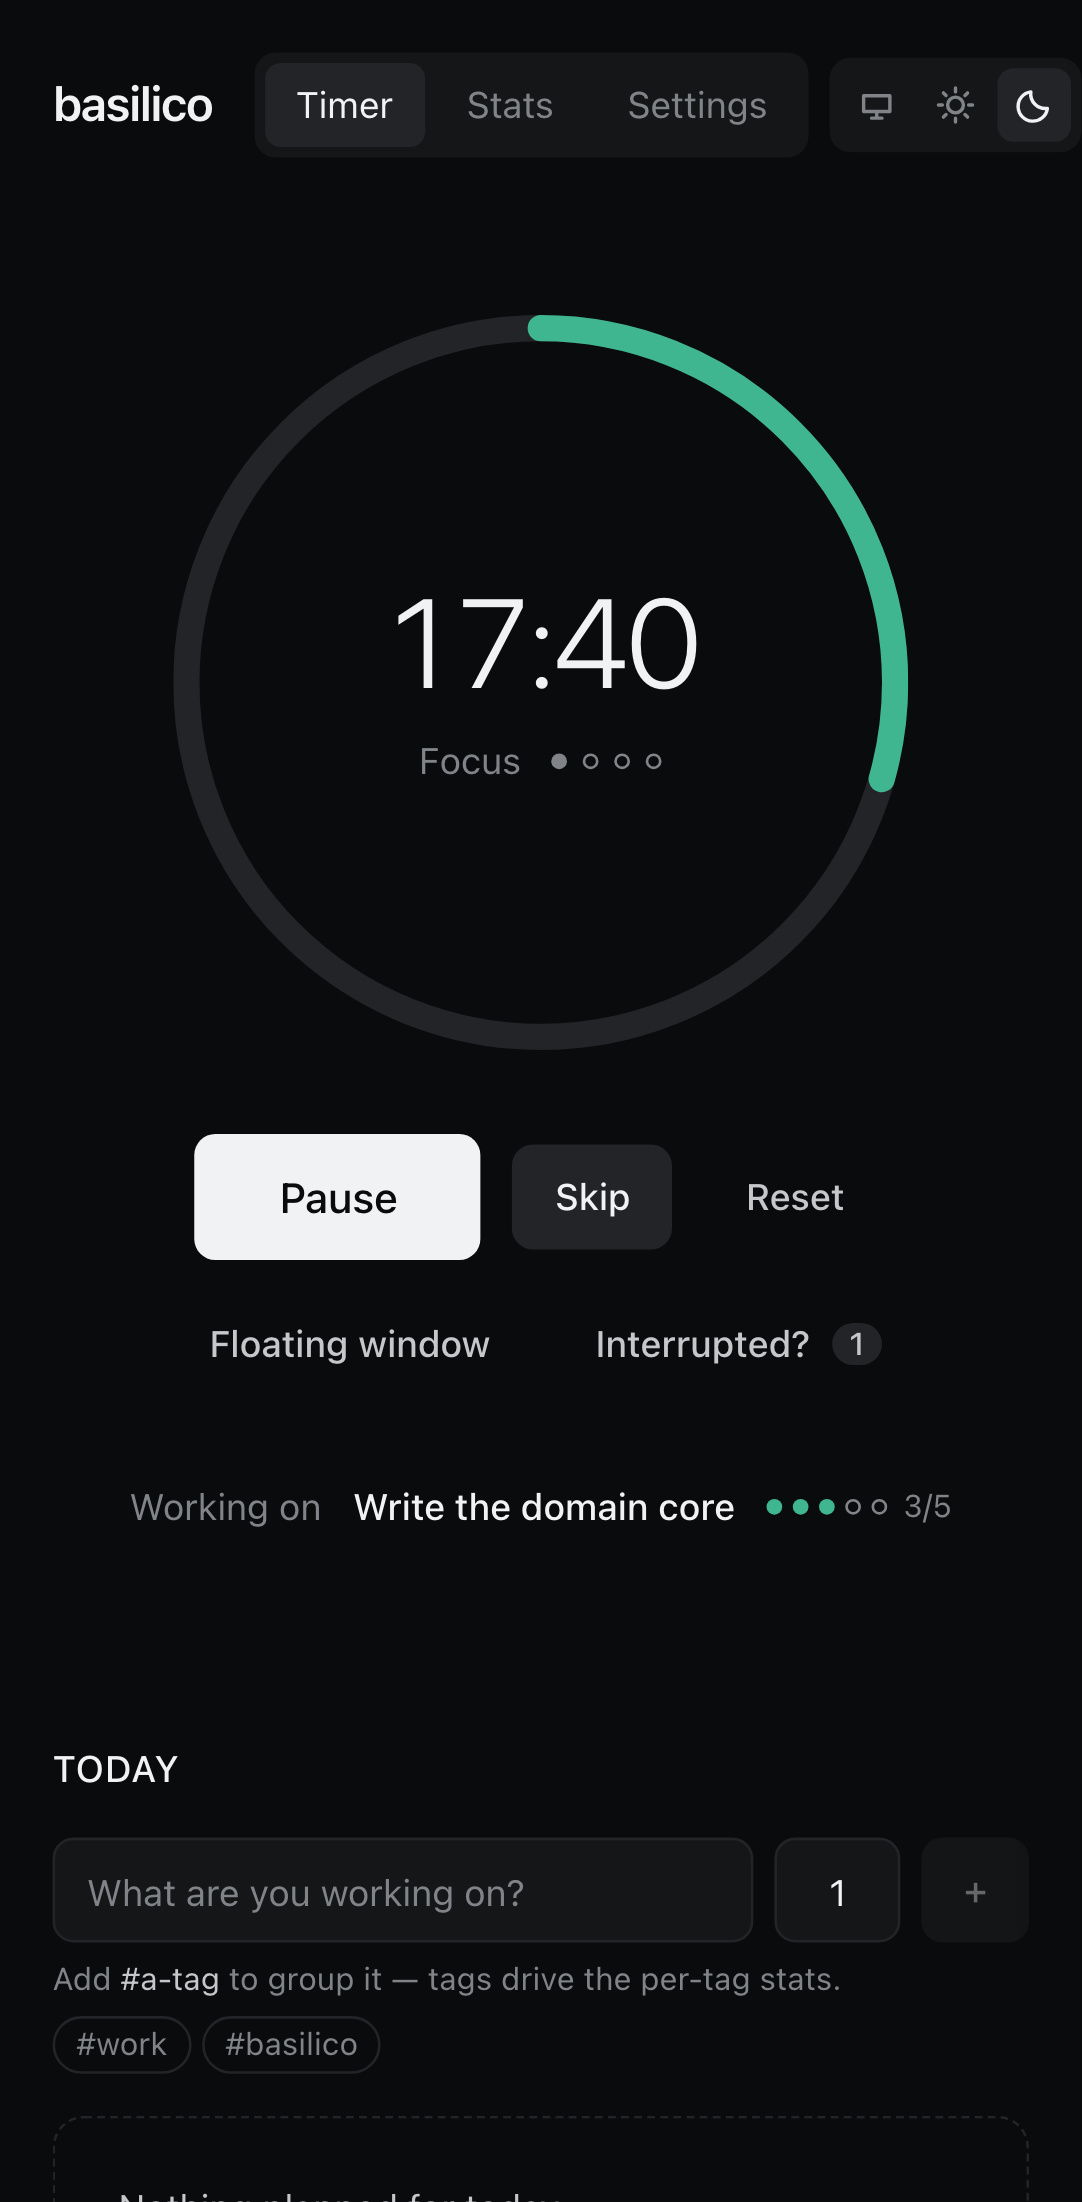
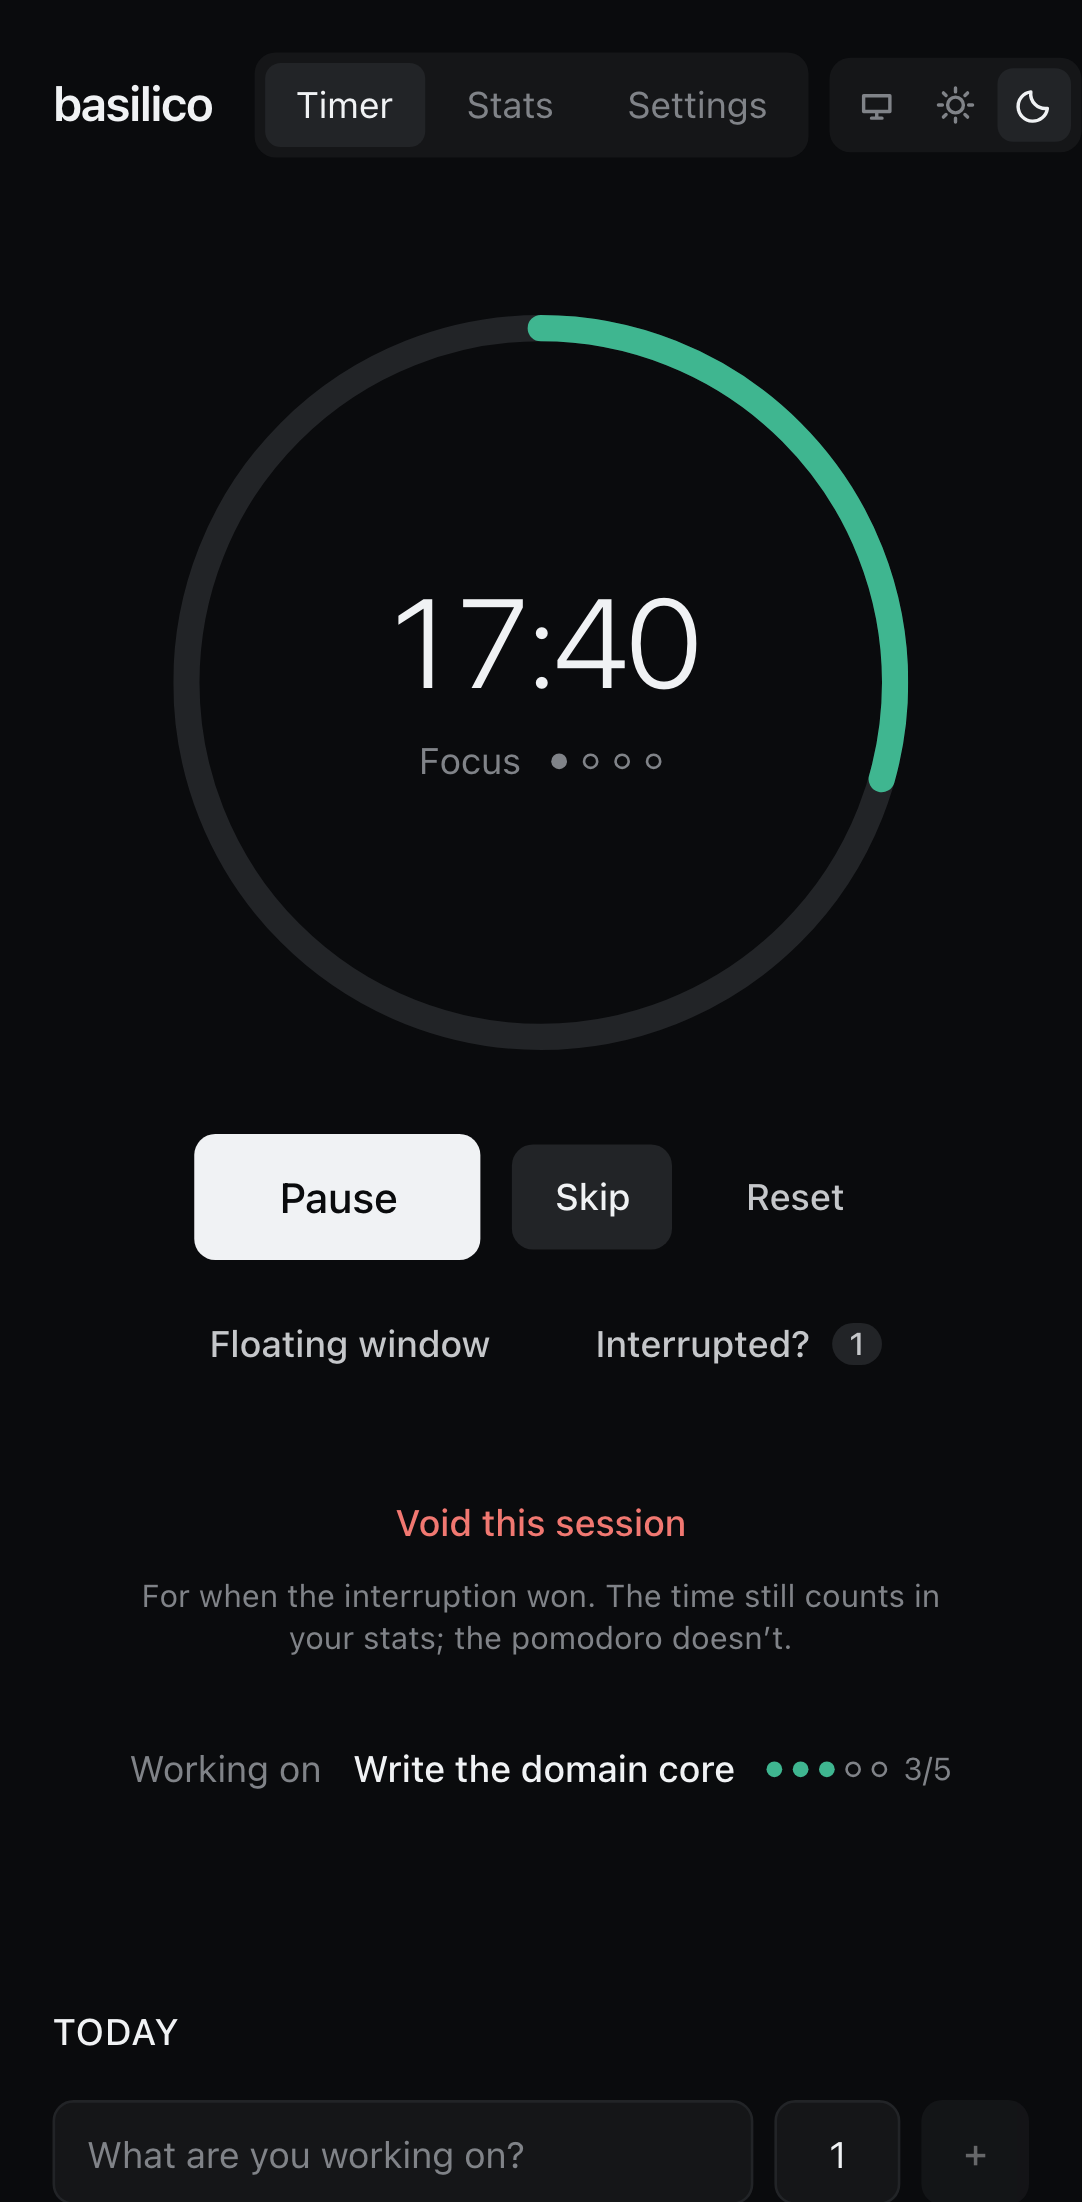
Endless really means endless, and voiding leaves the interruption menu
The cycle
- with "never stop on its own" set — the default — an absence is no longer a
  reason to stop. Coming back to a session that ended an hour ago used to leave
  the timer idle; it now picks the cycle back up. Only an explicit stop ends it.
- what cannot happen is inventing work: a phase resumed after an absence starts
  *now*, never back-dated to the old deadline. Dating it back would hand over an
  already-expired phase, and the next tick would close that one too, and the one
  after it. The banner still reports the session that really ended, and when.
- turn the setting off and the previous behaviour returns, since you did not ask
  it to keep going.

Voiding
- out of the interruption menu and onto its own line. It ends the session rather
  than annotating it, so it was neither a sibling of Pause nor a third kind of
  interruption, and burying it one level down made it read like the latter.
- it keeps its one-line meaning under it: the time still counts in your stats,
  the pomodoro doesn't. The menu is now just the two ways a session survives.

diff --git a/apps/web/src/features/timer/InterruptionMenu.tsx b/apps/web/src/features/timer/InterruptionMenu.tsx
@@ -3,20 +3,21 @@ import { useApp } from '../../store/app'
 import { Button } from '../../ui/Button'
 
 /**
- * Interruptions and voiding, gathered behind one trigger.
+ * The two ways a session survives an interruption, behind one trigger.
  *
- * These used to sit permanently under the timer: three buttons and a paragraph
- * of explanation, on a screen whose entire job is to be quiet. And it still
- * didn't land — people asked what "void" meant anyway. Explaining a control in
- * prose beside it is the tell that the control isn't self-explanatory.
+ * These used to sit permanently under the timer with a paragraph of explanation,
+ * on a screen whose entire job is to be quiet — and it still didn't land, people
+ * asked what the controls meant anyway. Explaining a control in prose beside it
+ * is the tell that the control isn't self-explanatory, so each action now
+ * carries its own one-line meaning, read as you reach for it.
  *
- * So each action now carries its own one-line meaning, read at the moment you
- * reach for it, and the timer screen goes back to being a timer.
+ * Voiding lives outside this menu: it ends the session rather than annotating
+ * it, and burying an action of that weight one level down made it read like a
+ * third kind of interruption.
  */
 export function InterruptionMenu() {
   const timer = useApp((s) => s.timer)
   const interrupt = useApp((s) => s.interrupt)
-  const voidPhase = useApp((s) => s.voidPhase)
 
   const [open, setOpen] = useState(false)
   const [top, setTop] = useState(0)
@@ -99,18 +100,6 @@ export function InterruptionMenu() {
             count={timer.interruptions.external}
             onClick={() => interrupt('external')}
           />
-
-          <hr className="border-ink-800 my-2" />
-
-          <MenuItem
-            danger
-            label="Void this session"
-            meaning="For when it didn’t survive. The time still counts in your stats; the pomodoro doesn’t."
-            onClick={() => {
-              voidPhase(Date.now())
-              setOpen(false)
-            }}
-          />
         </div>
       )}
     </div>
@@ -121,13 +110,11 @@ function MenuItem({
   label,
   meaning,
   count,
-  danger = false,
   onClick,
 }: {
   label: string
   meaning: string
   count?: number
-  danger?: boolean
   onClick: () => void
 }) {
   return (
@@ -137,7 +124,7 @@ function MenuItem({
       className="hover:bg-ink-900 focus-visible:outline-ink-300 block w-full rounded-lg px-3 py-2 text-left transition-colors duration-150 focus-visible:outline-2 motion-reduce:transition-none"
     >
       <span className="flex items-center justify-between gap-3">
-        <span className={`text-sm ${danger ? 'text-danger' : ''}`}>{label}</span>
+        <span className="text-sm">{label}</span>
         {count !== undefined && count > 0 && (
           <span className="text-ink-600 tabular text-xs">{count}</span>
         )}

diff --git a/apps/web/e2e/smoke.spec.ts b/apps/web/e2e/smoke.spec.ts
@@ -41,7 +41,7 @@ test('state survives a reload and time keeps running', async ({ page }) => {
   await expect(page.getByRole('button', { name: 'Pause' })).toBeVisible()
 })
 
-test('a session that ended while away is caught up', async ({ page }) => {
+test('a session that ended while away is caught up, and the cycle carries on', async ({ page }) => {
   await page.getByRole('button', { name: 'Start' }).click()
 
   // Forty minutes pass: the session ended at its deadline, fifteen minutes ago.
@@ -49,8 +49,12 @@ test('a session that ended while away is caught up', async ({ page }) => {
 
   await expect(page.getByText(/ended/)).toBeVisible()
   await expect(page.getByText(/15 minutes ago/)).toBeVisible()
-  // Nothing chained on its own: the break waits for a decision.
-  await expect(page.getByRole('button', { name: 'Start' })).toBeVisible()
+
+  // The cycle is set to never stop on its own, so an absence doesn't break it:
+  // the break is already running, started on return rather than back-dated.
+  await expect(page.getByRole('button', { name: 'Pause' })).toBeVisible()
+  await expect(page.getByRole('timer')).toHaveAccessibleName(/Short break/)
+  await expect(page.getByRole('timer')).toContainText('04:5')
 
   // And the message survives a reload: the person who closed their tab is
   // precisely the one who needs to read it.
@@ -152,7 +156,8 @@ test('the interruption menu explains itself and closes politely', async ({ page 
 
   // Each action states what it does, rather than a paragraph pinned to the page.
   await expect(menu).toContainText('the session survives')
-  await expect(menu).toContainText('The time still counts in your stats')
+  // Voiding is not in here: it ends the session rather than annotating it.
+  await expect(menu.getByText('Void this session')).toHaveCount(0)
 
   await page.getByRole('button', { name: /Someone interrupted me/ }).click()
   await expect(trigger).toContainText('1')

diff --git a/packages/core/src/timer.test.ts b/packages/core/src/timer.test.ts
@@ -125,10 +125,35 @@ describe('session end and chaining', () => {
     expect(result.state.startedAt).toBe(T0 + 25 * MIN)
   })
 
-  it('does not chain a break that has been due for too long', () => {
-    const result = advance(running(), ctxAt(T0 + 25 * MIN + CATCH_UP_GRACE_MS + 1))
+  it('hands control back when a break has been due for too long', () => {
+    // Endless off: coming back to a break that was due an hour ago should not
+    // hand over a timer that already expired.
+    const settings = { autoStartFocus: false } as const
+    const late = T0 + 25 * MIN + CATCH_UP_GRACE_MS + 1
+    const result = advance(running(settings), ctxAt(late, settings))
     expect(result.state.mode).toBe('shortBreak')
     expect(result.state.status).toBe('idle')
+  })
+
+  it('keeps the cycle running after an absence when it must never stop', () => {
+    // Endless is the default: an absence is not a reason to break the cycle,
+    // only an explicit stop is.
+    const late = T0 + 3 * 60 * MIN
+    const result = advance(running(), ctxAt(late))
+
+    expect(result.state.status).toBe('running')
+    expect(result.state.mode).toBe('shortBreak')
+    // Started now, not back-dated: dating it to the old end would hand over an
+    // already-expired phase, and the next tick would close that one too.
+    expect(result.state.startedAt).toBe(late)
+    expect(remainingMs(result.state, late)).toBe(5 * MIN)
+  })
+
+  it('still reports how late the finished session was', () => {
+    const late = T0 + 3 * 60 * MIN
+    const ended = advance(running(), ctxAt(late)).events.find((e) => e.type === 'session-ended')
+    // The banner needs this even though the cycle carried on without us.
+    expect(ended?.type === 'session-ended' && ended.lateByMs).toBe(155 * MIN)
   })
 
   it('gives a long break every four focus sessions', () => {

diff --git a/packages/core/src/timer.ts b/packages/core/src/timer.ts
@@ -5,6 +5,8 @@ import { plannedMsFor, type Settings } from './settings'
  * Past this much lateness we stop auto-starting the next phase: the tab was
  * closed or frozen, and picking up a break that was due an hour ago makes no
  * sense. The app shows "ended X ago" and hands control back.
+ *
+ * Unless the cycle is set to never stop on its own — see `closePhase`.
  */
 export const CATCH_UP_GRACE_MS = 60_000
 
@@ -240,11 +242,18 @@ function closePhase(
   }
 
   const autoStart = next === 'focus' ? ctx.settings.autoStartFocus : ctx.settings.autoStartBreaks
+  // "Never stop on its own" means exactly that: an absence is not a reason to
+  // break the cycle, only an explicit stop is.
+  const endless = ctx.settings.autoStartBreaks && ctx.settings.autoStartFocus
   const lateBy = Math.max(0, ctx.now - endedAt)
-  // We only chain when the end just happened: resuming a break that was due an
-  // hour ago would hand the user an already-finished timer.
-  if (autoStart && lateBy <= CATCH_UP_GRACE_MS) {
-    const started = startPhase(idle, ctx, { at: endedAt, intention: null })
+  const justEnded = lateBy <= CATCH_UP_GRACE_MS
+
+  if (autoStart && (justEnded || endless)) {
+    // A phase that just ended chains from its own end, so the cycle stays
+    // aligned. One resumed after an absence starts *now* instead — dating it
+    // back would hand over an already-expired phase, and the next tick would
+    // close that one too, and the one after it.
+    const started = startPhase(idle, ctx, { at: justEnded ? endedAt : ctx.now, intention: null })
     return { state: started, events: [...events, { type: 'phase-started', mode: next }] }
   }
 

diff --git a/apps/web/src/features/timer/TimerScreen.tsx b/apps/web/src/features/timer/TimerScreen.tsx
@@ -23,6 +23,7 @@ export function TimerScreen() {
   const lastEnded = useApp((s) => s.lastEnded)
   const toggle = useApp((s) => s.toggle)
   const skipPhase = useApp((s) => s.skipPhase)
+  const voidPhase = useApp((s) => s.voidPhase)
   const resetPhase = useApp((s) => s.resetPhase)
   const dismissEnded = useApp((s) => s.dismissEnded)
 
@@ -112,6 +113,24 @@ export function TimerScreen() {
         )}
         <InterruptionMenu />
       </div>
+
+      {/*
+        Voiding sits on its own line rather than in the control row or inside the
+        interruption menu. It ends the session instead of annotating it, so it is
+        neither a sibling of Pause nor a third kind of interruption — and an
+        action that discards a pomodoro should take a deliberate look to find.
+      */}
+      {timer.mode === 'focus' && timer.status !== 'idle' && (
+        <div className="flex flex-col items-center gap-1">
+          <Button variant="danger" size="sm" onClick={() => voidPhase(Date.now())}>
+            Void this session
+          </Button>
+          <p className="text-ink-600 max-w-xs text-center text-xs">
+            For when the interruption won. The time still counts in your stats; the pomodoro
+            doesn’t.
+          </p>
+        </div>
+      )}
 
       {pip.window && <PipTimer target={pip.window} />}
 

diff --git a/apps/web/src/App.test.tsx b/apps/web/src/App.test.tsx
@@ -131,10 +131,7 @@ describe('session notes', () => {
     render(<App />)
 
     await user.click(screen.getByRole('button', { name: 'Start' }))
-    // Voiding now lives behind the interruption menu, where each action carries
-    // its own explanation instead of a paragraph pinned under the timer.
-    await user.click(screen.getByRole('button', { name: /Interrupted\?/ }))
-    await user.click(screen.getByRole('button', { name: /Void this session/ }))
+    await user.click(screen.getByRole('button', { name: 'Void this session' }))
 
     await user.click(screen.getByRole('radio', { name: '4 out of 5' }))
     await user.type(screen.getByLabelText('Session note'), 'Kept getting pinged')

diff --git a/README.md b/README.md
@@ -21,7 +21,7 @@ the reports, and being able to get your data back out. That's where basilico put
 | **Interruptions**            | Counted the way the original method does: internal (`'`) and external (`-`). A focus session you truly abandon is voided, not counted as half a pomodoro.                                              |
 | **Overtime and Flowtime**    | The counter can run past zero, or run as a free stopwatch with a break sized from what you worked. For people whose flow a hard stop at 25 minutes breaks.                                             |
 | **Adjustable display**       | Exact, rough ("about 24 minutes"), percentage, or hidden. Watching seconds tick down makes a lot of people anxious.                                                                                    |
-| **Endless by default**       | Breaks and focus sessions start themselves, so the cycle runs on its own until you stop it.                                                                                                            |
+| **Endless by default**       | Focus, break, focus, break — the cycle only ends when you end it. Even coming back after an absence picks it back up.                                                                                  |
 | **A session journal**        | Jot an intention before a session, a note and a 1–5 rating after. Optional, dismissible, and it feeds a journal on the stats page.                                                                     |
 | **Inline tags**              | Type `Write the core #basilico`. Tags drive the per-tag breakdown; no extra field to fill in.                                                                                                          |
 | **A backlog and a day plan** | Cirillo's two sheets: an inventory that accumulates everything, and a today list you compose. Unfinished work rolls forward on its own, and the plan tells you what it adds up to in hours.            |

diff --git a/docs/design.md b/docs/design.md
@@ -133,6 +133,22 @@ the `#` convention is one people already know. A session freezes its task's tag 
 reading it back from the task later would silently rewrite months of history the first time someone
 retags something.
 
+## An endless cycle means endless
+
+With "never stop on its own" set — the default — the timer chains focus, break,
+focus, break, and only an explicit stop ends it. An absence is not an explicit
+stop, so coming back to a session that ended an hour ago no longer leaves the
+timer idle: it resumes.
+
+The one thing that cannot happen is inventing work. A phase resumed after an
+absence starts **now**, never back-dated to the old deadline — dating it back
+would hand over an already-expired phase, and the next tick would close that one
+too, and the one after it. The banner still reports the session that really
+ended, and when.
+
+Turn the setting off and the old behaviour returns: past a minute of lateness the
+timer stops and hands control back, because you did not ask it to keep going.
+
 ## Two sheets, not one list
 
 Cirillo works with an **activity inventory** — everything you might do — and a **to-do-today sheet**
